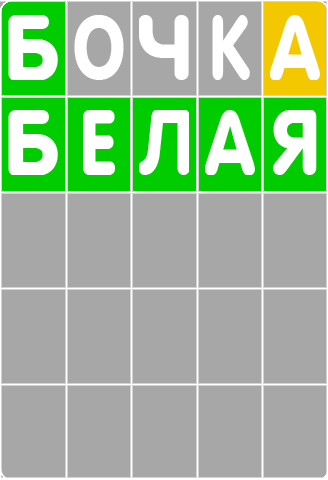
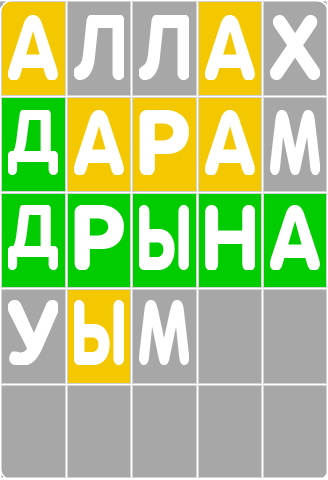
ну вот, почти игра уже

diff --git a/Вордли/main.py b/Вордли/main.py
@@ -1,10 +1,11 @@
-from modes import Images
+import Images
+
 from PASS import PASS
 
 import json
 import logging
 import random
-
+from texts import *
 from flask import Flask, request
 
 app = Flask(__name__)
@@ -14,15 +15,8 @@ yandex = Images.YandexImages()
 yandex.set_auth_token(token=PASS.token)
 yandex.skills = PASS.id
 Image = Images.Img()
-f = open("words.txt", "r", encoding="UTF8").readlines()
-
-word = f[random.randint(0, len(f))].strip()
-
-
-user = {
-    "Comp_Word": word,
-    "Counter": 0
-}
+words = open("words.txt", "r", encoding="UTF8").readlines()
+users = set()
 
 
 @app.route("/", methods=["POST"])
@@ -57,55 +51,107 @@ def make_response(text=None, card=None, tts=None, buttons=[]):
     return response
 
 
-def handler(event, context):
-    if event["session"]["new"] == True:
-        return new()
-    request_word = event["request"]["original_utterance"]
-    return game(request_word)
+def handler(event, e):
+    user_request = event["request"]["command"]
+    user_request = user_request.replace("ё", "е")
+    user_request = user_request.replace("-", " ")
+    user = event["session"]["user_id"]
+    if user not in users:
+        users.add(user)
+        user_dict = {
+            "id": user,
+            "name": "",
+            "strike": 0,
+            "old_words": [],
+            "action": "",
+            "word": "",
+            "Counter": 0
+        }
+        json.dump(user_dict, open(f'{user}.json', 'w'), indent=4)
+    user_dict = json.load(open(f'{user}.json', encoding='utf8'))
+    if user_dict["name"] == "":
+        if user_dict["action"] == '':
+            user_dict["action"] = 'name'
+            text = 'Привет! Давай знакомиться, меня зовут Вордл, а тебя?'
+        elif user_dict["action"] == 'name':
+            user_dict['name'] = user_request.capitalize()
+            text = f"Приятно познакомиться, {user_dict['name']}! Знаешь правила игры wordle?"
+            user_dict["action"] = 'rules'
+        json.dump(user_dict, open(f'{user}.json', 'w'), indent=4)
+        return make_response(text=text)
+    elif user_dict["action"] == 'rules':
+        if yes_or_no(user_request) is None:
+            return make_response(text='Не понял тебя, что ты имеешь ввиду?')
+        elif yes_or_no(user_request):
+            user_dict["action"] = 'start_game'
+            json.dump(user_dict, open(f'{user}.json', 'w'), indent=4)
+            return make_response(text='Супер! Стартуем?')
+        else:
+            user_dict["action"] = 'start_game'
+            json.dump(user_dict, open(f'{user}.json', 'w'), indent=4)
+            return make_response(text=rules + "\nНачинаем играть?")
+    elif user_dict["action"] == 'start_game':
+        if yes_or_no(user_request) is None:
+            return make_response(text='Не понял тебя, что ты имеешь ввиду?')
+        elif yes_or_no(user_request):
+            user_dict["action"] = 'game'
+            json.dump(user_dict, open(f'{user}.json', 'w'), indent=4)
+            return game(user_dict)
+        else:
+            user_dict["action"] = 'exit'
+            json.dump(user_dict, open(f'{user}.json', 'w'), indent=4)
+            return make_response(text='Жаль, возвращайся ещё..')
+    elif user_dict["action"] == 'game':
+        return game(user_dict, user_request)
 
 
-
-def new():
-    Image.clear()
-    yandex.deleteAllImage()
-    user["Counter"] = 0
-    x = yandex.downloadImageFile("Background.png")["id"]
-    user["Comp_Word"] = f[random.randint(0, len(f))].strip()
-    card = {
-        "type": "ImageGallery",
-        "items": [
-            {
-                "image_id": x
-            }
-        ]
-    }
-    return make_response(text="123", card=card)
+def yes_or_no(answer):
+    if answer in Yes_list:
+        return True
+    elif answer in No_list:
+        return False
+    else:
+        return None
 
 
-
-def game(word):
+def game(user_dict, answer=''):
+    if user_dict['word'] == '':
+        user_dict['word'] = words[random.randint(0, len(words))].strip()
+        Image.clear()
+        yandex.deleteAllImage()
+        user_dict["Counter"] = 0
+        image_id = yandex.downloadImageFile("Background.png")["id"]
+        card = {
+            "type": "ImageGallery",
+            "items": [
+                {
+                    "image_id": image_id
+                }
+            ]
+        }
+        json.dump(user_dict, open(f'{user_dict["id"]}.json', 'w', encoding='utf8'), indent=4, ensure_ascii=False)
+        return make_response(text="Я загадал слово, можешь начинать;)", card=card)
+    word = answer
     for i in range(5):
-        if word[i] == user["Comp_Word"][i]:
-            Image.fill((0, 204, 0), i, user["Counter"])
-        elif word[i] in user["Comp_Word"]:
-            Image.fill((244, 200, 0), i, user["Counter"])
-        Image.paster(word[i], i, user["Counter"])
-    x = yandex.downloadImageFile("Background.png")["id"]
-    print(user["Comp_Word"])
+        if word[i] == user_dict["word"][i]:
+            Image.fill((0, 204, 0), i, user_dict["Counter"])
+        elif word[i] in user_dict["word"]:
+            Image.fill((244, 200, 0), i, user_dict["Counter"])
+        Image.paster(word[i], i, user_dict["Counter"])
+    image_id = yandex.downloadImageFile("Background.png")["id"]
+    print(user_dict["word"])
     card = {
         "type": "ImageGallery",
         "items": [
             {
-                "image_id": x
+                "image_id": image_id
             }
         ]
     }
-    user["Counter"] += 1
+    user_dict["Counter"] += 1
+    json.dump(user_dict, open(f'{user_dict["id"]}.json', 'w', encoding='utf8'), indent=4, ensure_ascii=False)
     return make_response(text="123", card=card)
-
 
 
 if __name__ == '__main__':
-    app.run(debug=True)
-
-print('Артемка')
+    app.run()

diff --git a/Вордли/Images.py b/Вордли/Images.py
@@ -1,0 +1,136 @@
+import json
+import requests
+from PIL import Image, ImageDraw
+
+
+class Img:
+    def __init__(self):
+        self.param_x = [8, 74, 139, 205, 270]
+        self.param_y = [15, 110, 205, 300, 395]
+
+    def fill(self, color, x, y):
+        back = Image.open("Background.png")
+        back = back.convert("RGB")
+        seed = (self.param_x[x], self.param_y[y])
+        ImageDraw.floodfill(back, seed, color, thresh=50)
+        back.save("Background.png")
+
+    def paster(self, letter, x, y):
+        lett = Image.open("letters/" + letter+".png")
+        back = Image.open("Background.png")
+        param_x = self.param_x
+        param_y = self.param_y
+        back.paste(lett, (param_x[x], param_y[y]), mask=lett)
+        back.save("Background.png")
+
+    def show(self):
+        back = Image.open("Background.png")
+        back.show()
+
+    def clear(self):
+        back = Image.open("Back.png")
+        back.save("Background.png")
+
+
+class YandexImages(object):
+    def __init__(self):
+        self.SESSION = requests.Session()
+
+        self.API_VERSION = 'v1'
+        self.API_BASE_URL = 'https://dialogs.yandex.net/api'
+        self.API_URL = self.API_BASE_URL + '/' + self.API_VERSION + '/'
+        self.skills = ''
+
+    def set_auth_token(self, token):
+        self.SESSION.headers.update(self.get_auth_header(token))
+
+    def get_auth_header(self, token):
+        return {
+            'Authorization': 'OAuth %s' % token
+        }
+
+    def log(self, error_text, response):
+        log_file = open('YandexApi.log', 'a')
+        log_file.write(error_text + '\n')  # +response)
+        log_file.close()
+
+    def validate_api_response(self, response, required_key_name=None):
+        content_type = response.headers['Content-Type']
+        content = json.loads(response.text) if 'application/json' in content_type else None
+
+        if response.status_code == 200:
+            if required_key_name and required_key_name not in content:
+                self.log('Unexpected API response. Missing required key: %s' % required_key_name, response=response)
+                return None
+        elif content and 'error_message' in content:
+            self.log('Error API response. Error message: %s' % content['error_message'], response=response)
+            return None
+        elif content and 'message' in content:
+            self.log('Error API response. Error message: %s' % content['message'], response=response)
+            return None
+        else:
+            response.raise_for_status()
+
+        return content
+
+    def checkOutPlace(self):
+        result = self.SESSION.get(self.API_URL + 'status')
+        content = self.validate_api_response(result)
+        if content != None:
+            return content['images']['quota']
+        return None
+
+
+    def downloadImageUrl(self, url):
+        path = 'skills/{skills_id}/images'.format(skills_id=self.skills)
+        result = self.SESSION.post(url=self.API_URL + path, data=json.dumps({"url": url}))
+        content = self.validate_api_response(result)
+        if content != None:
+            return content['image']
+        return None
+
+
+    def downloadImageFile(self, img):
+        path = 'skills/{skills_id}/images'.format(skills_id=self.skills)
+        result = self.SESSION.post(url=self.API_URL + path, files={'file': (img, open(img, 'rb'))})
+        content = self.validate_api_response(result)
+        if content != None:
+            return content['image']
+        return None
+
+
+    def getLoadedImages(self):
+        path = 'skills/{skills_id}/images'.format(skills_id=self.skills)
+        result = self.SESSION.get(url=self.API_URL + path)
+        content = self.validate_api_response(result)
+        if content != None:
+            return content['images']
+        return None
+
+    def deleteImage(self, img_id):
+        path = 'skills/{skills_id}/images/{img_id}'.format(skills_id=self.skills, img_id=img_id)
+        result = self.SESSION.delete(url=self.API_URL + path)
+        content = self.validate_api_response(result)
+        if content != None:
+            return content['result']
+        return None
+
+    def deleteAllImage(self):
+        success = 0
+        fail = 0
+        images = self.getLoadedImages()
+        for image in images:
+            image_id = image['id']
+            if image_id:
+                if self.deleteImage(image_id):
+                    success += 1
+                else:
+                    fail += 1
+            else:
+                fail += 1
+
+        return {'success': success, 'fail': fail}
+
+
+
+

diff --git a/Вордли/texts.py b/Вордли/texts.py
@@ -1,0 +1,18 @@
+Yes_list = ["да", "а то", "а как же", "конечно", "хорошо", "ну да", "помню", "не забыл", "ещё бы", "точно", "йес",
+            "легко", "ладно", "ясно", "так точно", "типа того", "разумеется", "правильно", "само собой разумеется",
+            "пусть будет так", "безусловно", "ага", "отлично", "несомненно", "реально", "угу", "есть такое дело",
+            "однозначно", "неужто", "железобетонно", "а то как же", "ну конечно", "дадада", "дада", "дас", "да с",
+            "поехали", "погнали", "вот именно", "полетели", "агась", "не вопрос",
+            "знаю"]  # Список положительных ответов
+
+No_list = ["нет", "net", "как можно", "ни в коем случае", "вот ещё", "ни за что", "очень надо",
+           "очень нужно", "ещё чего", "нельзя", "не тутто было", "ничего подобного", "ни фига", "ни капли", "ни хрена",
+           "вовсе нет", "как бы не так", "да вы что", "я бы не сказал", "я бы не сказала", "речи быть не может",
+           "и речи быть не может", "какое там", "кого там", "куда там", "обойдёшься", "отнюдь", "нету", "не скажи",
+           "ни в коем разе", "да нет же", "да нет", "а вот и нет", "нет как нет", "и в помине нет", "чёрта с два",
+           "ничуть", "никак нет", "ни под каким видом", "ни шиша", "и в помине нет", "и речи быть не может",
+           "ни за что на свете", "хоть убей", "не царское это дело", "ага конечно", "хрен тебе", "ни в жизнь", "шутишь",
+           "неа", "и не подумаю", "нетнет", "нетушки", "забыл", "не помню", "не",
+           "фигушки"]  # Список отрицательных ответов
+
+rules = "Артем напишет правила позже:("

diff --git a/Вордли/test.py b/Вордли/test.py
@@ -1,5 +1,5 @@
 import pymorphy2
-
+import json
 lst = ["ыфаыафыа"]
 threshold = 0.4
 
@@ -8,3 +8,5 @@ for word in lst:
     p = morph.parse(word)
     score = p[0].score
     print(f'{word} - {"осмысленное" if score >= threshold else "бред"}')
+
+json.dump({"a": 0}, open('b.json', 'w'))
